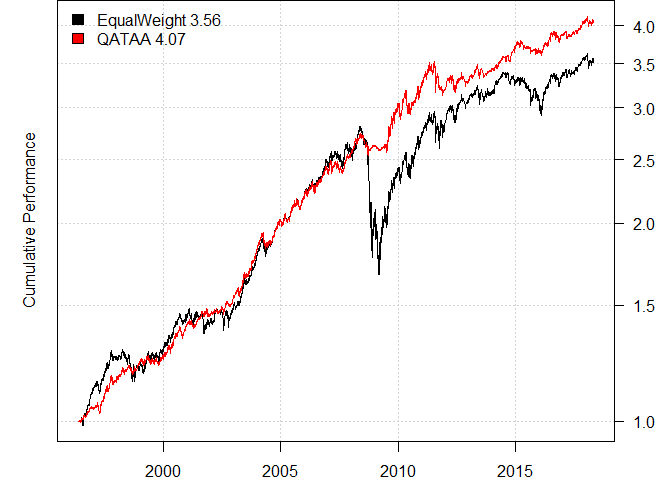
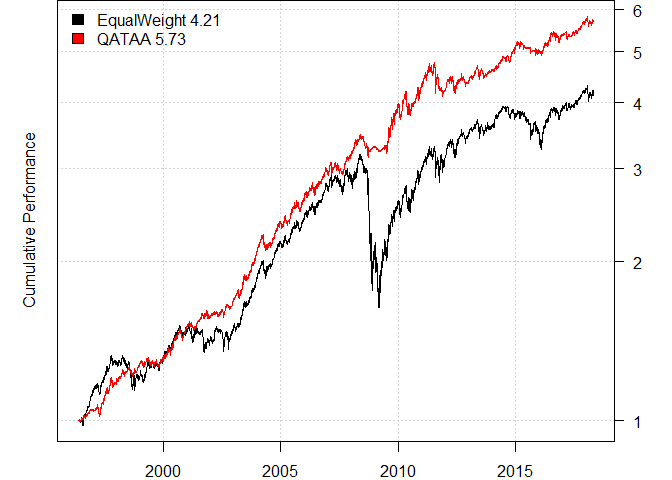
QATAA Update

diff --git a/_posts/2018-04-30-QATAA.md b/_posts/2018-04-30-QATAA.md
@@ -24,7 +24,7 @@ based on the simple moving average rule:
 
 The model is only updated once a month on the last day of the month. In order to backtest the the [SIT toolbox](http://systematicinvestor.github.io/about/) is used. In addition, the extended historical data for the asset classes is sourced in the way that was discussed in the [blog](http://qtests.github.io/Starting-with-SIT/) earlier.
 
-####   Data
+### Data
 
 ``` r
 # Get the data
@@ -86,14 +86,19 @@ print(last(data$prices))
 
     ## 
     ## Last Prices:
-	## 
+    ## 	
     ##               LQD   DBC    VTI   ICF  CASH
     ## 2018-05-04 114.67 17.69 137.13 95.33 83.19
+
+### Setup
 
 ``` r
 # Setup
 # -------------------------------------------------------------
 data$universe <- data$prices > 0
+
+# do not allocate to CASH
+data$universe$CASH <- NA
 
 prices <- data$prices * data$universe
 n <- ncol(prices)
@@ -112,27 +117,26 @@ commission <- list(cps = 0.01, fixed = 10.0, percentage = 0.0)
 
 The benchmark portfolio for the QATAA strategy is naturally a static portfolio that allocates weights to all asset classes equally. It turns out that the later method generates quite sound and respectful performance. One of the references regarding the 1/N asset allocation rule is [a paper by L. Garlappi, V. DeMiguel and R. Uppal](https://papers.ssrn.com/sol3/papers.cfm?abstract_id=676997).
 
-####   1/N Allocation
+#### 1/N Allocation
 
 ``` r
 # 1/N Allocation
-
-# do not allocate to CASH
-data$universe$CASH <- NA
 
 data$weight[] = NA
 data$weight[period.ends,] = ntop(prices[period.ends,], n)
 models$EqualWeight = bt.run.share(data, clean.signal=F, commission = commission, trade.summary=T, silent=T)
 ```
 
-####   QATAA Strategy
+#### QATAA Strategy
 
 ``` r
 # The Quantitative Approach To Tactical Asset Allocation Strategy 
 
 # compute 10 month moving average
 sma = bt.apply.matrix(prices, SMA, 200)
+``
 
+``` r
 # go to cash if prices falls below 10 month moving average
 go2cash = prices < sma
 go2cash = ifna(go2cash, TRUE)
@@ -151,7 +155,7 @@ data$weight[period.ends,] = weight[period.ends,]
 models$QATAA = bt.run.share(data, clean.signal=F, commission = commission, trade.summary=TRUE, silent=TRUE)
 ```
 
-####   Performance Reporting
+#### Performance Reporting
 
 ``` r
 # Performance
@@ -159,6 +163,7 @@ models$QATAA = bt.run.share(data, clean.signal=F, commission = commission, trade
 plotbt(models, plotX = T, log = 'y', LeftMargin = 3, main = NULL)
 mtext('Cumulative Performance', side = 2, line = 1)
 ```
+
 ![]({{ site.baseurl }}/images/2018-04-30-QATAA_files/unnamed-chunk-6-1.png)
 
 ``` r
@@ -168,41 +173,42 @@ knitr::kable(plotbt.strategy.sidebyside(models, make.plot=F, return.table=T))
 
     ## 
     ## Performance Stats:
-
-
+    ##
+	
 |                   | EqualWeight       | QATAA             |
 |-------------------|:------------------|:------------------|
-| Period            | May1996 - May2018 | May1996 - May2018 |
-| Cagr              | 5.95              | 6.59              |
-| Sharpe            | 0.63              | 1.11              |
-| DVR               | 0.6               | 1.09              |
-| Volatility        | 9.94              | 5.92              |
-| MaxDD             | -40.61            | -11.11            |
-| AvgDD             | -1.24             | -0.89             |
-| VaR               | -0.83             | -0.55             |
-| CVaR              | -1.5              | -0.88             |
+| Period            | May1996 - May2018 &ensp;| May1996 - May2018 |
+| Cagr              | 6.76              | 8.26              |
+| Sharpe            | 0.59              | 1.11              |
+| DVR               | 0.55              | 1.09              |
+| Volatility        | 12.55             | 7.39              |
+| MaxDD             | -48.78            | -13.71            |
+| AvgDD             | -1.5              | -1.09             |
+| VaR               | -1.04             | -0.69             |
+| CVaR              | -1.9              | -1.1              |
 | Exposure          | 99.75             | 99.75             |
-| Win.Percent       | 62                | 65.6              |
-| Avg.Trade         | 0.1               | 0.2               |
-| Avg.Win           | 0.5               | 0.5               |
-| Avg.Loss          | -0.6              | -0.5              |
-| Best.Trade        | 6.5               | 2.98              |
-| Worst.Trade       | -6.54             | -3.13             |
-| WinLoss.Ratio     | 0.94              | 1.06              |
+| Win.Percent       | 59.8              | 65.6              |
+| Avg.Trade         | 0.2               | 0.2               |
+| Avg.Win           | 0.8               | 0.6               |
+| Avg.Loss          | -0.8              | -0.6              |
+| Best.Trade        | 8.12              | 3.72              |
+| Worst.Trade       | -8.17             | -3.91             |
+| WinLoss.Ratio     | 1                 | 1.05              |
 | Avg.Len           | 20.88             | 20.88             |
-| Num.Trades        | 1320              | 916               |
-| Win.Percent.Day   | 53.9              | 55.3              |
-| Best.Day          | 5.7               | 3.1               |
-| Worst.Day         | -6.4              | -3.9              |
-| Win.Percent.Month | 64.9              | 68.3              |
-| Best.Month        | 9.1               | 4.2               |
-| Worst.Month       | -15.3             | -5.2              |
+| Num.Trades        | 1056              | 910               |
+| Win.Percent.Day   | 53.7              | 55.3              |
+| Best.Day          | 7.6               | 3.9               |
+| Worst.Day         | -8.1              | -4.9              |
+| Win.Percent.Month | 64.2              | 67.9              |
+| Best.Month        | 11.5              | 5.2               |
+| Worst.Month       | -19.3             | -6.5              |
 | Win.Percent.Year  | 73.9              | 82.6              |
-| Best.Year         | 19.6              | 18                |
-| Worst.Year        | -20.8             | -1.7              |
+| Best.Year         | 24.6              | 23                |
+| Worst.Year        | -26.9             | -2.2              |
 
 ``` r
-for(m in names(models)) {
+for(m in names(models)) 
+  {
   cat(paste0("\n\n", m, ' strategy:\n'))
   plotbt.transition.map(models[[m]]$weight, name=m)
   legend('topright', legend = m, bty = 'n')
@@ -216,91 +222,86 @@ for(m in names(models)) {
 ```
 
     ## 
-    ## 
     ## EqualWeight strategy:
 
 ![]({{ site.baseurl }}/images/2018-04-30-QATAA_files/unnamed-chunk-6-2.png)
 
-
-    ## 
     ## 
     ## EqualWeightStrategy - Monthly Performance Stats: 
-    ## 
-    ## 
-    ##        Jan    Feb    Mar    Apr    May    Jun    Jul    Aug    Sep    Oct     Nov    Dec    Year    MaxDD 
-    ## -----  -----  -----  -----  -----  -----  -----  -----  -----  -----  ------  -----  -----  ------  ------
-    ## 1996   NA     NA     NA     NA     NA     1.0    -1.4   2.2    2.5    1.6     4.1    1.8    12.2    -2.7  
-    ## 1997   1.1    -0.4   -1.0   1.0    2.8    1.5    4.0    -1.5   4.0    -0.5    0.1    0.2    11.7    -4.1  
-    ## 1998   0.1    -0.1   1.6    -0.8   -1.1   0.4    -2.9   -5.6   5.1    -0.1    0.0    0.6    -3.1    -10.5 
-    ## 1999   0.4    -3.0   3.4    3.3    -1.4   1.8    -1.2   0.5    -0.2   0.0     0.9    2.4    7.0     -4.2  
-    ## 2000   0.2    1.0    2.3    -0.3   0.9    2.9    0.8    2.9    -0.4   -1.3    -0.1   2.2    11.6    -3.6  
-    ## 2001   1.6    -2.2   -2.2   2.5    0.0    0.1    0.1    0.2    -4.0   -0.1    2.2    -0.3   -2.4    -8.5  
-    ## 2002   -0.3   1.0    3.0    0.0    0.4    -0.3   -2.2   1.8    -1.9   0.4     2.4    1.2    5.5     -7.3  
-    ## 2003   0.3    1.7    -1.0   2.5    3.9    0.7    0.7    1.8    1.3    1.7     1.3    3.4    19.6    -2.7  
-    ## 2004   2.1    2.5    1.5    -4.6   2.5    -0.1   0.6    2.3    1.5    2.1     1.4    1.2    13.5    -6.1  
-    ## 2005   -1.7   2.2    -0.2   0.0    1.3    1.9    3.0    0.5    0.0    -2.3    1.9    1.4    8.0     -3.7  
-    ## 2006   3.0    -0.5   1.7    0.8    -1.3   0.9    1.6    1.1    0.3    2.5     3.3    -0.9   13.0    -4.3  
-    ## 2007   1.9    0.6    -0.4   1.4    0.0    -2.5   -1.8   1.8    3.9    2.5     -2.5   0.0    4.8     -6.0  
-    ## 2008   0.0    1.0    1.1    3.5    1.1    -2.0   -1.4   -0.5   -6.2   -15.3   -8.0   5.5    -20.8   -36.8 
-    ## 2009   -6.7   -9.1   3.3    9.1    5.5    -0.8   4.9    3.2    2.6    -0.2    4.0    1.2    16.8    -20.4 
-    ## 2010   -3.1   2.7    3.4    3.0    -4.8   -1.9   5.1    -1.2   4.5    2.5     -0.8   4.1    13.7    -8.7  
-    ## 2011   2.0    2.6    0.1    3.2    -0.6   -2.1   1.3    -2.3   -6.7   7.2     -1.6   1.2    3.8     -11.9 
-    ## 2012   3.3    1.9    0.9    0.4    -4.3   2.4    2.5    1.6    0.2    -1.2    0.2    0.7    8.7     -6.0  
-    ## 2013   1.8    -0.4   1.4    1.4    -1.8   -1.9   2.0    -1.6   0.8    1.9     -0.8   0.7    3.3     -6.4  
-    ## 2014   0.1    3.2    0.2    1.3    0.9    1.0    -1.4   1.6    -3.4   2.2     -0.6   -1.7   3.2     -4.5  
-    ## 2015   0.6    0.9    -1.0   0.1    -0.7   -1.4   -0.8   -2.6   -0.3   2.7     -1.4   -1.2   -5.1    -9.5  
-    ## 2016   -2.7   -0.1   5.1    1.7    0.8    2.9    0.3    -0.6   0.5    -2.0    0.0    2.3    8.2     -6.0  
-    ## 2017   0.2    1.6    -1.2   -0.1   0.2    0.4    1.5    0.2    0.7    1.0     1.2    0.9    6.9     -2.8  
-    ## 2018   0.5    -3.3   1.0    0.5    0.5    NA     NA     NA     NA     NA      NA     NA     -0.8    -5.3  
-    ## Avg    0.2    0.2    1.0    1.4    0.2    0.2    0.7    0.3    0.2    0.2     0.3    1.2    6.0     -7.9  
-    ## 
-    ## 
+
+|     |Jan  |Feb   |Mar  |Apr  |May  |Jun  |Jul  |Aug  |Sep  |Oct   |Nov   |Dec  |Year  |MaxDD |
+|:----|:----|:-----|:----|:----|:----|:----|:----|:----|:----|:-----|:-----|:----|:-----|:-----|
+|1996 &ensp;|NA   &ensp;|NA    &ensp;|NA   &ensp;|NA   &ensp;|NA   &ensp;|1.1  &ensp;|-1.8 &ensp;|2.8  &ensp;|2.8  &ensp;|1.6   &ensp;|4.9   &ensp;|2.4  &ensp;|14.3  &ensp;|-3.3  |
+|1997 |1.3  |-0.5  |-1.1 |1.0  |3.3  |1.7  |4.6  |-1.7 |4.7  |-0.9  |0.1   |0.1  |13.2  |-5.0  |
+|1998 |-0.2 |-0.1  |1.9  |-1.1 |-1.5 |0.4  |-3.8 |-7.5 |5.9  |-0.2  |0.2   |0.7  |-5.7  |-14.2 |
+|1999 |0.4  |-3.4  |4.1  |4.1  |-1.6 |2.1  |-1.5 |0.7  |-0.4 |0.1   |1.1   |3.0  |8.9   |-5.0  |
+|2000 |0.4  |1.1   |2.7  |-0.3 |1.1  |3.2  |0.9  |3.4  |-0.7 |-1.8  |-0.5  |2.3  |12.3  |-4.9  |
+|2001 |1.7  |-2.9  |-3.0 |3.2  |-0.1 |0.1  |-0.3 |0.0  |-5.5 |-0.5  |3.0   |-0.3 |-4.8  |-11.9 |
+|2002 |-0.3 |1.2   |4.2  |-0.5 |0.3  |-0.7 |-3.2 |2.2  |-2.5 |0.4   |3.1   |1.3  |5.4   |-10.2 |
+|2003 |0.4  |2.0   |-1.3 |3.1  |4.8  |0.8  |1.0  |2.2  |1.4  |2.2   |1.7   |4.0  |24.6  |-3.4  |
+|2004 |2.7  |3.0   |1.9  |-5.5 |3.2  |-0.1 |0.7  |2.7  |1.9  |2.5   |1.9   |1.4  |17.2  |-7.3  |
+|2005 |-2.1 |2.8   |-0.3 |-0.1 |1.5  |2.3  |3.9  |0.5  |0.0  |-2.8  |2.3   |1.7  |9.9   |-4.5  |
+|2006 |3.7  |-0.6  |2.1  |0.9  |-1.7 |1.1  |1.9  |1.1  |0.2  |3.0   |4.0   |-1.1 |15.7  |-5.3  |
+|2007 |2.3  |0.6   |-0.6 |1.7  |0.1  |-3.2 |-2.5 |2.1  |4.7  |3.0   |-3.5  |-0.1 |4.3   |-7.8  |
+|2008 |-0.4 |1.0   |1.3  |4.6  |1.5  |-2.5 |-1.9 |-0.7 |-8.0 |-19.3 |-10.2 |6.8  |-26.9 &ensp;|-44.7 |
+|2009 |-8.2 |-11.3 |4.0  |11.5 |6.9  |-0.9 |6.1  |3.9  |3.3  |-0.3  |4.9   |1.8  |21.1  |-24.9 |
+|2010 |-4.1 |3.4   |4.3  |3.7  |-6.1 |-2.5 |6.3  |-1.5 |5.6  |3.1   |-1.0  |5.2  |16.8  |-10.9 |
+|2011 |2.4  |3.4   |0.2  |3.9  |-0.8 |-2.6 |1.6  |-2.9 |-8.4 |9.1   |-2.0  |1.5  |4.4   |-14.8 |
+|2012 |4.2  |2.4   |1.2  |0.4  |-5.3 |3.0  |3.1  |2.0  |0.2  |-1.4  |0.3   |0.8  |11.1  |-7.5  |
+|2013 |2.3  |-0.6  |1.7  |1.7  |-2.2 |-2.3 |2.5  |-2.0 |1.0  |2.4   |-1.0  |0.9  |4.3   |-7.9  |
+|2014 |0.0  |4.0   |0.3  |1.6  |1.1  |1.3  |-1.7 |1.9  |-4.3 |2.7   |-0.7  |-2.0 |4.1   |-5.6  |
+|2015 |0.6  |1.2   |-1.3 |0.1  |-0.8 |-1.7 |-1.0 |-3.2 |-0.4 |3.5   |-1.7  |-1.5 |-6.2  |-11.7 |
+|2016 |-3.5 |-0.1  |6.3  |2.2  |1.0  |3.5  |0.3  |-0.7 |0.6  |-2.5  |0.1   |2.9  |10.4  |-7.6  |
+|2017 |0.2  |2.1   |-1.5 |-0.2 |0.3  |0.5  |1.9  |0.2  |0.9  |1.3   |1.6   |1.2  |8.9   |-3.5  |
+|2018 |0.7  |-4.1  |1.2  |0.7  |0.6  |NA   |NA   |NA   |NA   |NA    |NA    |NA   |-0.9  |-6.5  |
+|Avg  |0.2  |0.2   |1.3  |1.7  |0.2  |0.2  |0.8  |0.2  |0.1  |0.2   |0.4   |1.5  |7.1   |-9.9  |
+
+ 
     ## EqualWeightStrategy - Latest Allocation: 
     ## 
-    ##              LQD      DBC      VTI      ICF      CASH   
-    ## -----------  -------  -------  -------  -------  -------
-    ## 2018-05-04   19.96%   20.04%   19.88%   20.09%   20.04% 
-    ## 
+    ##              LQD      DBC      VTI      ICF      CASH  
+    ## -----------  -------  -------  -------  -------  ------
+    ## 2018-05-04   24.96%   25.06%   24.87%   25.12%   0.00% 
+
+	
     ## 
     ## QATAA strategy:
 
 ![]({{ site.baseurl }}/images/2018-04-30-QATAA_files/unnamed-chunk-6-3.png)
 
     ## 
-    ## 
     ## QATAAStrategy - Monthly Performance Stats: 
-    ## 
-    ## 
-    ##        Jan    Feb    Mar    Apr    May    Jun    Jul    Aug    Sep    Oct    Nov    Dec    Year   MaxDD 
-    ## -----  -----  -----  -----  -----  -----  -----  -----  -----  -----  -----  -----  -----  -----  ------
-    ## 1996   NA     NA     NA     NA     NA     0.9    0.3    0.1    1.2    1.5    1.1    -0.5   4.6    -1.0  
-    ## 1997   0.4    -0.1   -0.9   0.8    2.6    1.3    3.5    -1.4   3.8    -0.7   0.0    1.2    11.1   -4.0  
-    ## 1998   0.3    1.0    1.6    -0.3   0.1    1.2    -0.4   -2.1   1.9    -0.3   1.5    1.5    6.1    -3.4  
-    ## 1999   1.1    -2.0   1.1    0.9    -1.1   0.7    -1.0   0.7    -0.4   -0.8   1.2    1.9    2.2    -3.4  
-    ## 2000   -0.1   1.5    1.6    -0.2   0.8    2.3    0.7    2.7    -0.6   -1.5   1.9    1.8    11.4   -3.9  
-    ## 2001   0.9    -0.3   -0.9   0.1    0.6    1.4    1.0    1.6    -0.1   0.7    -1.1   -0.2   3.7    -3.1  
-    ## 2002   0.2    0.8    -0.2   0.0    0.6    1.1    -0.5   1.7    0.1    -0.2   0.1    2.4    6.2    -2.7  
-    ## 2003   1.4    1.6    -1.6   0.8    3.8    0.7    0.8    1.8    1.1    1.7    1.3    3.2    18.0   -3.0  
-    ## 2004   2.1    2.4    1.5    -4.4   1.0    -0.1   0.3    2.2    1.1    2.0    1.5    1.1    11.0   -5.3  
-    ## 2005   -1.7   2.2    -0.2   0.0    1.2    1.8    3.1    0.4    0.0    -2.3   1.8    1.2    7.7    -3.6  
-    ## 2006   2.9    -0.6   1.7    0.8    -1.3   0.9    1.4    0.9    0.2    2.3    2.0    -0.9   10.6   -4.3  
-    ## 2007   1.8    -0.4   -0.5   1.3    0.0    -2.6   0.0    0.3    2.9    2.3    -0.5   1.1    5.8    -4.4  
-    ## 2008   1.7    2.5    -0.2   1.1    0.7    0.0    -1.7   -1.1   -2.1   0.9    0.9    0.4    3.0    -7.4  
-    ## 2009   -0.6   -1.2   0.4    0.4    0.5    0.6    2.8    3.1    2.6    -0.3   3.9    1.4    14.3   -4.1  
-    ## 2010   -3.3   1.9    3.4    3.0    -4.9   -1.5   2.5    0.4    0.9    2.4    -0.8   4.2    8.1    -8.1  
-    ## 2011   1.9    2.7    0.2    3.2    -0.7   -2.1   1.3    -2.4   -5.2   0.5    -1.4   0.7    -1.7   -11.1 
-    ## 2012   2.6    0.8    1.0    0.3    -4.3   2.0    1.3    0.4    0.2    -1.2   -0.2   -0.1   2.8    -5.8  
-    ## 2013   1.9    -0.5   1.2    2.2    -1.5   -0.7   1.3    -2.0   0.9    0.9    0.5    0.5    4.6    -4.8  
-    ## 2014   -0.2   1.2    0.2    1.2    0.9    1.0    -1.3   1.8    -2.0   3.0    1.2    0.3    7.3    -2.1  
-    ## 2015   1.7    0.0    0.2    -1.3   -0.1   -0.3   0.3    -1.3   0.2    -0.2   -0.1   0.1    -0.6   -4.8  
-    ## 2016   -0.3   -0.2   2.8    -0.2   0.8    2.8    0.3    -0.6   0.5    -2.0   0.5    1.2    5.7    -3.7  
-    ## 2017   0.3    0.7    -1.1   -0.3   0.5    0.6    0.7    0.1    0.7    1.0    1.3    0.9    5.5    -2.5  
-    ## 2018   0.5    -1.9   0.2    0.6    0.3    NA     NA     NA     NA     NA     NA     NA     -0.3   -3.5  
-    ## Avg    0.7    0.5    0.5    0.5    0.0    0.5    0.8    0.3    0.4    0.4    0.7    1.1    6.4    -4.3  
-    ## 
-    ## 
+
+|     |Jan  |Feb  |Mar  |Apr  |May  |Jun  |Jul  |Aug  |Sep  |Oct  |Nov  |Dec  |Year |MaxDD |
+|:----|:----|:----|:----|:----|:----|:----|:----|:----|:----|:----|:----|:----|:----|:-----|
+|1996 &ensp;|NA   &ensp;|NA   &ensp;|NA   &ensp;|NA   &ensp;|NA   &ensp;|0.9  &ensp;|0.3  &ensp;|0.1  &ensp;|1.2  &ensp;|1.5  &ensp;|1.1  &ensp;|-0.5 &ensp;|4.6  &ensp;|-1.0  |
+|1997 |0.4  |-0.1 |-1.1 |1.0  |3.3  |1.7  |4.4  |-1.7 |4.7  |-0.9 |0.0  |1.6  |14.0 |-5.0  |
+|1998 |0.4  |1.3  |2.0  |-0.4 |0.1  |1.5  |-0.5 |-2.6 |2.4  |-0.4 |1.8  |1.9  |7.7  |-4.2  |
+|1999 |1.4  |-2.5 |1.3  |1.1  |-1.4 |0.9  |-1.2 |0.8  |-0.4 |-1.0 |1.6  |2.4  |2.8  |-4.3  |
+|2000 |-0.1 |1.7  |2.0  |-0.3 |1.0  |2.8  |0.9  |3.4  |-0.7 |-1.8 |2.4  |2.3  |14.3 |-4.9  |
+|2001 |1.1  |-0.3 |-1.1 |0.1  |0.7  |1.8  |1.2  |2.0  |-0.1 |0.8  |-1.3 |-0.2 |4.7  |-3.9  |
+|2002 |0.3  |1.0  |-0.3 |-0.5 |0.8  |1.3  |-0.6 |2.1  |0.2  |-0.3 |0.2  |3.1  |7.5  |-3.4  |
+|2003 |1.8  |2.0  |-1.9 |1.0  |4.8  |0.8  |1.0  |2.2  |1.4  |2.2  |1.7  |4.0  |23.0 |-3.7  |
+|2004 |2.7  |3.0  |1.9  |-5.5 |1.2  |-0.2 |0.4  |2.7  |1.4  |2.5  |1.9  |1.4  |14.1 |-6.6  |
+|2005 |-2.1 |2.8  |-0.3 |-0.1 |1.5  |2.3  |3.9  |0.5  |0.0  |-2.8 |2.2  |1.5  |9.7  |-4.5  |
+|2006 |3.7  |-0.8 |2.1  |1.0  |-1.6 |1.2  |1.7  |1.1  |0.2  |2.9  |2.5  |-1.1 |13.6 |-5.3  |
+|2007 |2.3  |-0.5 |-0.6 |1.7  |0.1  |-3.2 |0.0  |0.4  |3.6  |2.9  |-0.6 |1.3  |7.4  |-5.4  |
+|2008 |2.2  |3.1  |-0.3 |1.4  |0.9  |0.0  |-2.1 |-1.3 |-2.6 |1.1  |1.1  |0.5  |3.8  |-9.2  |
+|2009 |-0.8 |-1.4 |0.5  |0.6  |0.6  |0.7  |3.5  |3.9  |3.3  |-0.3 |4.9  |1.8  |18.3 |-5.1  |
+|2010 |-4.1 |2.4  |4.3  |3.7  |-6.1 |-1.9 |3.2  |0.6  |1.1  |3.1  |-1.0 |5.2  |10.2 |-10.0 |
+|2011 |2.4  |3.4  |0.2  |3.9  |-0.8 |-2.6 |1.6  |-2.9 |-6.5 |0.6  |-1.8 |0.9  |-2.2 &ensp;|-13.7 |
+|2012 |3.3  |1.1  |1.2  |0.4  |-5.3 |2.5  |1.7  |0.5  |0.2  |-1.5 |-0.2 |-0.1 |3.5  |-7.2  |
+|2013 |2.3  |-0.6 |1.6  |2.7  |-1.9 |-0.8 |1.5  |-2.5 |1.1  |1.1  |0.7  |0.6  |5.8  |-6.0  |
+|2014 |-0.3 |1.5  |0.3  |1.6  |1.1  |1.3  |-1.7 |2.3  |-2.5 |3.7  |1.5  |0.3  |9.3  |-2.7  |
+|2015 |2.2  |0.0  |0.3  |-1.7 |-0.1 |-0.4 |0.4  |-1.6 |0.3  |-0.2 |-0.1 |0.2  |-0.7 |-5.9  |
+|2016 |-0.5 |-0.2 |3.5  |-0.3 |1.0  |3.5  |0.3  |-0.7 |0.6  |-2.5 |0.6  |1.5  |7.0  |-4.6  |
+|2017 |0.3  |0.8  |-1.4 |-0.4 |0.6  |0.8  |0.9  |0.2  |0.9  |1.3  |1.6  |1.2  |7.0  |-3.1  |
+|2018 |0.7  |-2.3 |0.2  |0.8  |0.3  |NA   |NA   |NA   |NA   |NA   |NA   |NA   |-0.3 |-4.4  |
+|Avg  |0.9  |0.7  |0.7  |0.6  |0.0  |0.7  |0.9  |0.4  |0.5  |0.5  |0.9  |1.4  |8.1  |-5.4  | 
+
+	
     ## QATAAStrategy - Latest Allocation: 
     ## 
     ##              LQD     DBC      VTI      ICF     CASH   
     ## -----------  ------  -------  -------  ------  -------
-    ## 2018-05-04   0.00%   20.03%   19.88%   0.00%   60.09%
+    ## 2018-05-04   0.00%   25.05%   24.86%   0.00%   50.10%
